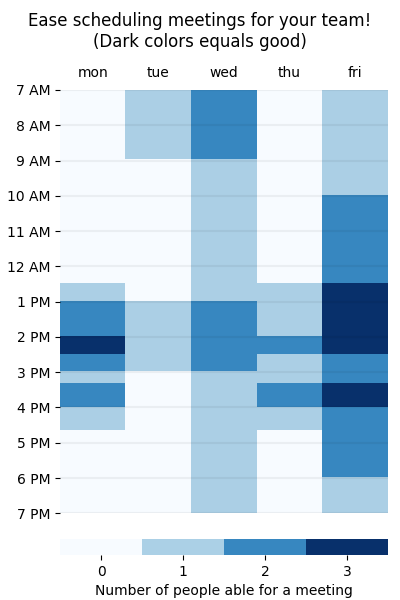
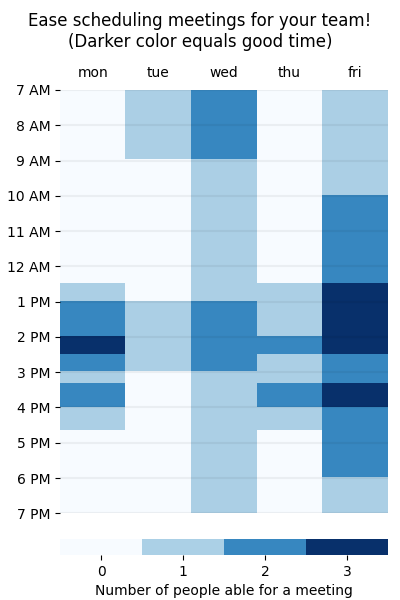
updating readme

Changed region(s): [[0.15, 0.03, 0.84, 0.09]]

diff --git a/example.py b/example.py
@@ -13,5 +13,5 @@ people_free_schedules = {
 
 plot_free_schedule(people_free_schedules,
                    header="Ease scheduling meetings for your team!" + '\n' +
-                          "(Dark colors equals good)",
+                          "(Darker color equals good time)",
                    filename='example/example.png')

diff --git a/README.md b/README.md
@@ -1,8 +1,8 @@
 # easymeet
 
-![eagescufba](example/eagescufba.png)
-
 Tool made to help teams find the most optimized time for a meeting.
+
+![eagescufba](example/eagescufba.png)
 
 
 ## instalation
@@ -52,3 +52,16 @@ Look at the exemple files for more practical understanding.
 # Other examples
 
 ![example](example/example.png)
+
+
+# To do
+
+Implement reading intervals from a csv file.
+
+
+## Contact
+
+  - **Name:** Marcos Conceição
+  - **E-mail:** [marcosrdac@gmail.com](mailto:marcosrdac@gmail.com)
+  - **GitHub:** [marcosrdac](github.com/marcosrdac)
+  - **Website:** [marcosrdac.github.io](http://marcosrdac.github.io)
